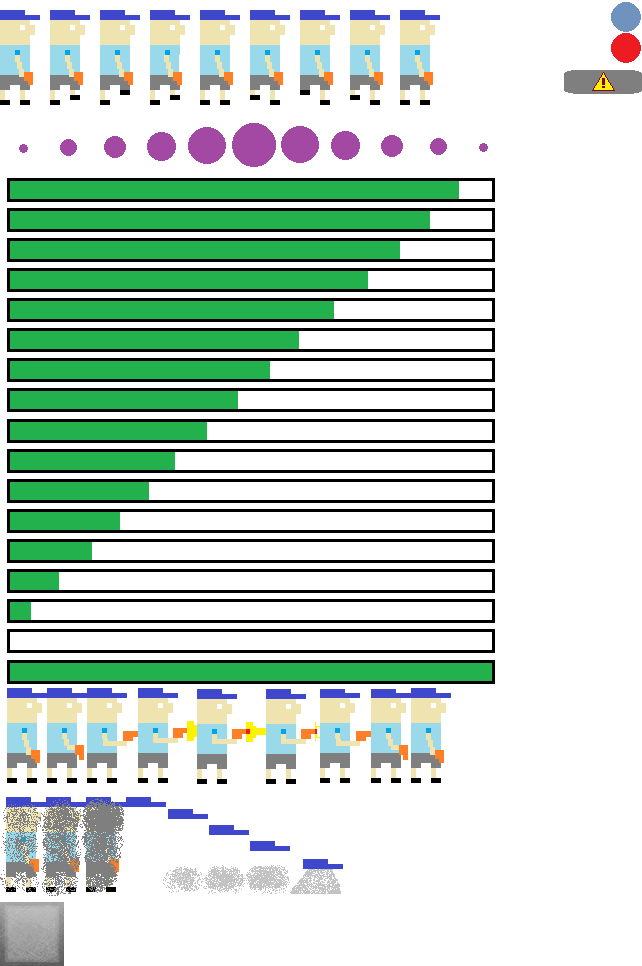
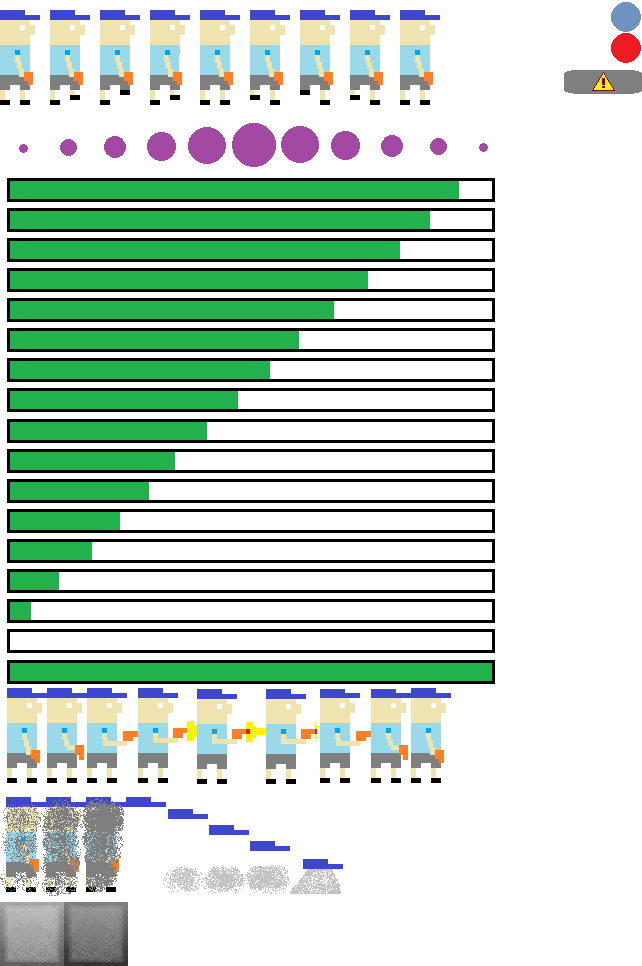
bug fixes (explosion same rate, bullet clear at end of setting)

Changed region(s): [[0.0935, 0.9317, 0.2181, 1.0]]

diff --git a/core/src/com/werbenjagermanjensenstudios/charitychamps/World.java b/core/src/com/werbenjagermanjensenstudios/charitychamps/World.java
@@ -17,6 +17,7 @@ import com.werbenjagermanjensenstudios.charitychamps.actions.Move;
 import com.werbenjagermanjensenstudios.charitychamps.actions.Spawn;
 import com.werbenjagermanjensenstudios.charitychamps.gameobjects.Block;
 import com.werbenjagermanjensenstudios.charitychamps.gameobjects.Bullet;
+import com.werbenjagermanjensenstudios.charitychamps.gameobjects.CrumblingBlock;
 import com.werbenjagermanjensenstudios.charitychamps.gameobjects.Dot;
 import com.werbenjagermanjensenstudios.charitychamps.gameobjects.Explosion;
 import com.werbenjagermanjensenstudios.charitychamps.gameobjects.HeartPowerup;
@@ -136,27 +137,28 @@ public class World {
     public void placeBlocks(){
         float offset = 51 / 2;
         placeOutsideWalls();
+
         Block block = new Block(350 + offset, 240, 10, 10);
         blocks.add(block);
-        block = new Block(350 + offset, 250, 10, 10);
+        block = new CrumblingBlock(350 + offset, 250, 10, 10);
         blocks.add(block);
-        block = new Block(350 + offset, 260, 10, 10);
+        block = new CrumblingBlock(350 + offset, 260, 10, 10);
         blocks.add(block);
-        block = new Block(350 + offset, 270, 10, 10);
+        block = new CrumblingBlock(350 + offset, 270, 10, 10);
         blocks.add(block);
-        block = new Block(350 + offset, 280, 10, 10);
+        block = new CrumblingBlock(350 + offset, 280, 10, 10);
         blocks.add(block);
         block = new Block(350 + offset, 240, 10, 10);
         blocks.add(block);
         block = new Block(350 + offset, 230, 10, 10);
         blocks.add(block);
-        block = new Block(350 + offset, 220, 10, 10);
+        block = new CrumblingBlock(350 + offset, 220, 10, 10);
         blocks.add(block);
         block = new Block(360 + offset, 280, 10, 10);
         blocks.add(block);
-        block = new Block(370 + offset, 280, 10, 10);
+        block = new CrumblingBlock(370 + offset, 280, 10, 10);
         blocks.add(block);
-        block = new Block(380 + offset, 280, 10, 10);
+        block = new CrumblingBlock(380 + offset, 280, 10, 10);
         blocks.add(block);
 
 
@@ -168,11 +170,11 @@ public class World {
         blocks.add(block);
         block = new Block(450 + offset, 280, 10, 10);
         blocks.add(block);
-        block = new Block(450 + offset, 240, 10, 10);
+        block = new CrumblingBlock(450 + offset, 240, 10, 10);
         blocks.add(block);
-        block = new Block(450 + offset, 230, 10, 10);
+        block = new CrumblingBlock(450 + offset, 230, 10, 10);
         blocks.add(block);
-        block = new Block(450 + offset, 220, 10, 10);
+        block = new CrumblingBlock(450 + offset, 220, 10, 10);
         blocks.add(block);
         block = new Block(440 + offset, 220, 10, 10);
         blocks.add(block);
@@ -181,22 +183,22 @@ public class World {
         block = new Block(420 + offset, 220, 10, 10);
         blocks.add(block);
 
-        block = new Block(200  + offset, 220, 10, 10);
+        block = new CrumblingBlock(200  + offset, 220, 10, 10);
         blocks.add(block);
-        block = new Block(210  + offset, 220, 10, 10);
+        block = new CrumblingBlock(210  + offset, 220, 10, 10);
         blocks.add(block);
-        block = new Block(220  + offset, 220, 10, 10);
+        block = new CrumblingBlock(220  + offset, 220, 10, 10);
         blocks.add(block);
         block = new Block(230  + offset, 220, 10, 10);
         blocks.add(block);
         block = new Block(240  + offset, 220, 10, 10);
         blocks.add(block);
 
-        block = new Block(600  + offset, 220, 10, 10);
+        block = new CrumblingBlock(600  + offset, 220, 10, 10);
         blocks.add(block);
-        block = new Block(590  + offset, 220, 10, 10);
+        block = new CrumblingBlock(590  + offset, 220, 10, 10);
         blocks.add(block);
-        block = new Block(580  + offset, 220, 10, 10);
+        block = new CrumblingBlock(580  + offset, 220, 10, 10);
         blocks.add(block);
         block = new Block(570  + offset, 220, 10, 10);
         blocks.add(block);
@@ -265,6 +267,19 @@ public class World {
         mm.setWall(515, 65, 8, true);
         mm.setWall(275, 320, 6, false);
 
+    }
+
+    private void randomizeBlock(float x, float y, float width, float height){
+        Block bl;
+        int Min = 1;
+        int Max = 10;
+        float rand = Min + (int)(Math.random() * ((Max - Min) + 1));
+        if(rand % 2 == 0){
+            bl = new CrumblingBlock(x, y, width, height);
+        } else {
+            bl = new CrumblingBlock(x, y, width, height);
+        }
+        blocks.add(bl);
     }
 
     private void placeOutsideWalls(){
@@ -447,6 +462,8 @@ public class World {
     }
 
     public void update(float deltaTime){
+
+
      //update collisions
      collisionManager.updateCollisions();
 
@@ -635,7 +652,8 @@ public class World {
         //reset current player
         currentPlayer.position.x = currentPlayer.xLast;
         currentPlayer.position.y = currentPlayer.yLast;
-        explosions.clear();
+        explosions = new ArrayList<Explosion>();
+        currentPlayer.bullet.reset();
     }
 
     public Player getPlayerById(int id){
@@ -685,6 +703,10 @@ public class World {
 
             actionsJson += action;
         }
+
+        System.out.println("TURN ID ______________________________");
+        System.out.println(currentPlayer.currentTurnId);
+
         if(currentPlayer.actions.size() > 0) {
             actionsJson = actionsJson.substring(0, actionsJson.length() - 1);
         }

diff --git a/core/src/com/werbenjagermanjensenstudios/charitychamps/MapManager.java b/core/src/com/werbenjagermanjensenstudios/charitychamps/MapManager.java
@@ -1,6 +1,7 @@
 package com.werbenjagermanjensenstudios.charitychamps;
 
 import com.werbenjagermanjensenstudios.charitychamps.gameobjects.Block;
+import com.werbenjagermanjensenstudios.charitychamps.gameobjects.CrumblingBlock;
 
 /**
  * Created by spence95 on 11/14/2015.
@@ -42,6 +43,28 @@ public class MapManager {
         world.blocks.add(block);
     }
 
+    public void setCrumblingNineBlockSquare(float x, float y){
+        //9 block square
+        Block block = new CrumblingBlock(x + offset, y, 10, 10);
+        world.blocks.add(block);
+        block = new CrumblingBlock(x + offset, y + 10, 10, 10);
+        world.blocks.add(block);
+        block = new CrumblingBlock(x + offset, y + 20, 10, 10);
+        world.blocks.add(block);
+        block = new CrumblingBlock(x + 10 + offset, y, 10, 10);
+        world.blocks.add(block);
+        block = new CrumblingBlock(x + 20 + offset, y, 10, 10);
+        world.blocks.add(block);
+        block = new CrumblingBlock(x + 10 + offset, y + 10, 10, 10);
+        world.blocks.add(block);
+        block = new CrumblingBlock(x + 10 + offset, y + 20, 10, 10);
+        world.blocks.add(block);
+        block = new CrumblingBlock(x + 20 + offset, y + 20, 10, 10);
+        world.blocks.add(block);
+        block = new CrumblingBlock(x + 20 + offset, y + 10, 10, 10);
+        world.blocks.add(block);
+    }
+
     public void setWall(float x, float y, float width, boolean sideways){
         Block block;
         for(int i = 0; i < width; i++){
@@ -49,6 +72,18 @@ public class MapManager {
                 block = new Block(x + offset + i * 10, y, 10, 10);
             } else {
                 block = new Block(x + offset, y + i * 10, 10, 10);
+            }
+            world.blocks.add(block);
+        }
+    }
+
+    public void setCrumblingWall(float x, float y, float width, boolean sideways){
+        CrumblingBlock block;
+        for(int i = 0; i < width; i++){
+            if(sideways) {
+                block = new CrumblingBlock(x + offset + i * 10, y, 10, 10);
+            } else {
+                block = new CrumblingBlock(x + offset, y + i * 10, 10, 10);
             }
             world.blocks.add(block);
         }

diff --git a/core/src/com/werbenjagermanjensenstudios/charitychamps/CollisionManager.java b/core/src/com/werbenjagermanjensenstudios/charitychamps/CollisionManager.java
@@ -2,6 +2,7 @@ package com.werbenjagermanjensenstudios.charitychamps;
 
 import com.werbenjagermanjensenstudios.charitychamps.gameobjects.Block;
 import com.werbenjagermanjensenstudios.charitychamps.gameobjects.Bullet;
+import com.werbenjagermanjensenstudios.charitychamps.gameobjects.CrumblingBlock;
 import com.werbenjagermanjensenstudios.charitychamps.gameobjects.Explosion;
 import com.werbenjagermanjensenstudios.charitychamps.gameobjects.Mine;
 import com.werbenjagermanjensenstudios.charitychamps.gameobjects.Player;
@@ -60,14 +61,25 @@ public class CollisionManager {
 //            Explosion dummyEx = new Explosion(-1000, -1000);
 //            world.explosions.add(dummyEx);
             for(int i = 0; i < world.explosions.size(); i++){
-            Explosion e = world.explosions.get(i);
+            //Explosion e = world.explosions.get(i);
             for(int p = 0; p < world.players.size(); p++){
                 Player pl = world.players.get(p);
-                if(pl.bounds.overlaps(e.bounds)){
+                if(pl.bounds.overlaps(world.explosions.get(i).bounds)){
                         playerHit(pl);
                     }
                 }
+            for(int b = 0; b < world.blocks.size(); b++){
+                Block bl = world.blocks.get(b);
+                if(bl instanceof CrumblingBlock){
+                    if(bl.bounds.overlaps(world.explosions.get(i).bounds)) {
+                        world.blocks.remove(b);
+                    }
+                }
             }
+          }
+
+
+
         }
     }
 
@@ -114,7 +126,7 @@ public class CollisionManager {
                     double degrees;
                     float bumpbackX;
                     float bumpbackY;
-                    float bumpbackTotal = 25;
+                    float bumpbackTotal = 10;
                     if(dx > px) {
                         degrees = Math.toDegrees(Math.atan(yDist / xDist));
                         bumpbackY = (float)(degrees/90) * bumpbackTotal;

diff --git a/core/src/com/werbenjagermanjensenstudios/charitychamps/WorldRenderer.java b/core/src/com/werbenjagermanjensenstudios/charitychamps/WorldRenderer.java
@@ -9,6 +9,7 @@ import com.badlogic.gdx.graphics.g2d.TextureRegion;
 import com.badlogic.gdx.scenes.scene2d.ui.TextField;
 import com.badlogic.gdx.utils.viewport.StretchViewport;
 import com.werbenjagermanjensenstudios.charitychamps.gameobjects.Block;
+import com.werbenjagermanjensenstudios.charitychamps.gameobjects.CrumblingBlock;
 import com.werbenjagermanjensenstudios.charitychamps.gameobjects.Explosion;
 import com.werbenjagermanjensenstudios.charitychamps.gameobjects.HeartPowerup;
 import com.werbenjagermanjensenstudios.charitychamps.gameobjects.Player;
@@ -93,7 +94,11 @@ public class WorldRenderer {
         batch.begin();
         for(int i = 0; i < world.blocks.size(); i++) {
             Block bl = world.blocks.get(i);
-            batch.draw(Assets.blockRegion, bl.position.x - (bl.bounds.width / 2), bl.position.y - (bl.bounds.height/2), bl.bounds.width, bl.bounds.height);
+            if(bl instanceof CrumblingBlock){
+                batch.draw(Assets.crumblingBlockRegion, bl.position.x - (bl.bounds.width / 2), bl.position.y - (bl.bounds.height / 2), bl.bounds.width, bl.bounds.height);
+            } else {
+                batch.draw(Assets.blockRegion, bl.position.x - (bl.bounds.width / 2), bl.position.y - (bl.bounds.height / 2), bl.bounds.width, bl.bounds.height);
+            }
         }
         batch.end();
     }

diff --git a/core/src/com/werbenjagermanjensenstudios/charitychamps/Assets.java b/core/src/com/werbenjagermanjensenstudios/charitychamps/Assets.java
@@ -43,6 +43,7 @@ public class Assets {
     public static TextureRegion bulletRegion;
     public static TextureRegion explosionRegion;
     public static TextureRegion blockRegion;
+    public static TextureRegion crumblingBlockRegion;
     public static TextureRegion playerFiringRegion;
     public static TextureRegion playerDyingRegion;
 
@@ -190,6 +191,8 @@ public class Assets {
         bulletRegion = new TextureRegion(player, 611, 0, 30, 33);
         explosionRegion = new TextureRegion(player, 611, 33, 30, 33);
         blockRegion = new TextureRegion(player, 0, 902, 63, 63);
+        crumblingBlockRegion = new TextureRegion(player, 63, 902, 63, 63);
+
         playerFiringRegion = new TextureRegion(player, 7, 688, 443, 105);
         playerDyingRegion = new TextureRegion(player, 0, 3, 340, 95);
 

diff --git a/core/src/com/werbenjagermanjensenstudios/charitychamps/ApiCall.java b/core/src/com/werbenjagermanjensenstudios/charitychamps/ApiCall.java
@@ -44,6 +44,9 @@ public class ApiCall {
                 String successValue = httpResponse.getResultAsString();
                 if (successValue.contains("\"total_count\": 0"))//wrong credentials
                 {
+                    System.out.println("IN GET");
+                    System.out.println(successValue);
+                    System.out.println(httpResponse.getStatus());
                     httpReturns.set(ListNumber, "EMPTY");
                 } else//there was a match yo! should probably have a unique conststraint on username. too hard eff it
                 {

diff --git a/core/src/com/werbenjagermanjensenstudios/charitychamps/gameobjects/Explosion.java b/core/src/com/werbenjagermanjensenstudios/charitychamps/gameobjects/Explosion.java
@@ -19,7 +19,9 @@ public class Explosion extends GameObject {
     }
 
     public void update(float deltaTime){
-        if (bounds.width < width && bounds.height < height) {
+        float widthCheck = bounds.width + deltaTime * rate;
+        float heightCheck = bounds.height + deltaTime * rate;
+        if (widthCheck < width && heightCheck < height) {
             bounds.width += deltaTime * rate;
             bounds.height += deltaTime * rate;
             rate = rate + (rate * deltaTime);

diff --git a/core/src/com/werbenjagermanjensenstudios/charitychamps/gameobjects/CrumblingBlock.java b/core/src/com/werbenjagermanjensenstudios/charitychamps/gameobjects/CrumblingBlock.java
@@ -1,0 +1,12 @@
+package com.werbenjagermanjensenstudios.charitychamps.gameobjects;
+
+/**
+ * Created by spence95 on 11/15/2015.
+ */
+public class CrumblingBlock extends Block {
+    public int health;
+    public CrumblingBlock(float x, float y, float width, float height){
+        super(x, y, width, height);
+        health = 1;
+    }
+}

diff --git a/core/src/com/werbenjagermanjensenstudios/charitychamps/tests/testCollisionManager.java b/core/src/com/werbenjagermanjensenstudios/charitychamps/tests/testCollisionManager.java
@@ -1,0 +1,7 @@
+package com.werbenjagermanjensenstudios.charitychamps.tests;
+
+/**
+ * Created by spence95 on 11/16/2015.
+ */
+public class testCollisionManager {
+}
